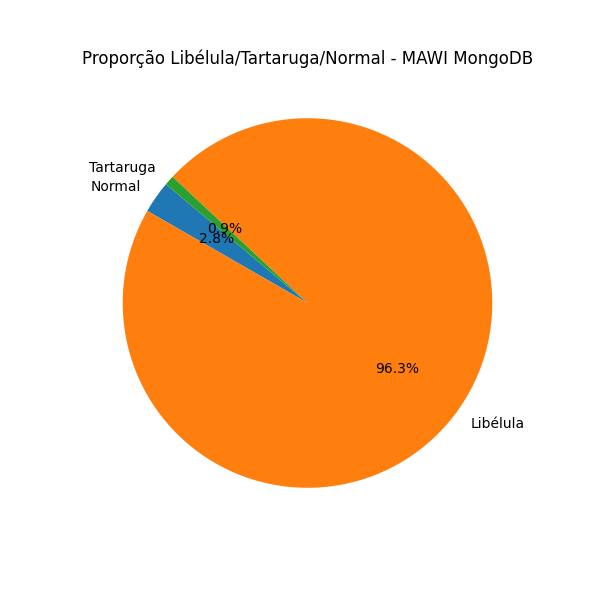
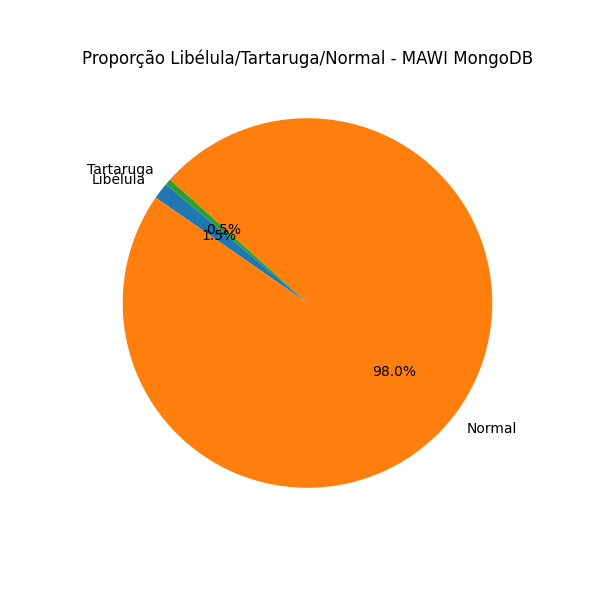
feat: arrumando alguns valore de hiperparametros

diff --git a/Processamento/Porporcoes.py b/Processamento/Porporcoes.py
@@ -24,10 +24,11 @@ os.makedirs(PATH_GRAPHS, exist_ok=True)
 today_str = datetime.now().strftime('%Y%m%d')
 
 # Hiperparâmetros (ajuste conforme necessidade)
-RATO_THRESHOLD = 45          # 1 KB
+RATO_THRESHOLD = 160          # 1 KB
 LIBELULA_THRESHOLD = 1000            # 1 segundo em ms
-CHITA_RATE_THRESHOLD = 10 * 1024 * 1024  # ex: 10 MB/s (bytes por segundo); ajuste conforme contexto
+CARACOL_RATE_THRESHOLD = 10 * 1024 * 1024  # ex: 10 MB/s (bytes por segundo); ajuste conforme contexto
                                          # lembre-se: taxa = nbytes_total / (duration/1000)
+MINIMUM_NPACKETS = 3  # mínimo de pacotes para considerar classificação
 
 # Conexão MongoDB
 client = pymongo.MongoClient("mongodb://localhost:27017/")
@@ -58,15 +59,15 @@ if res is None:
     raise RuntimeError("Coleção vazia ou erro ao agregar estatísticas.")
 elefante_thresh = res["avg_bytes"] + 3 * res["std_bytes"]
 tartaruga_thresh = res["avg_duration"] + 3 * res["std_duration"]
-caracol_thresh = res["avg_packets"] + 3 * res["std_packets"]
+chita_thresh = res["avg_packets"] + 3 * res["std_packets"]
 
 log("Thresholds calculados:")
 log(f"  Elefante ≥ {elefante_thresh:.2f} bytes; ")
 log(f"  Rato < {RATO_THRESHOLD} bytes; ")
 log(f"  Tartaruga ≥ {tartaruga_thresh:.2f} ms; ")
 log(f"  Libélula < {LIBELULA_THRESHOLD} ms; ")
-log(f"  Caracol ≥ {caracol_thresh:.2f} pacotes; ")
-log(f"  Chita ≥ taxa {CHITA_RATE_THRESHOLD} B/s")
+log(f"  Caracol < taxa {CARACOL_RATE_THRESHOLD} B/s; ")
+log(f"  Chita ≥ taxa {chita_thresh:.2f} B/s")
 log("Médias: ")
 log(f"  nbytes_total: {res['avg_bytes']:.2f} bytes")
 log(f"  duration: {res['avg_duration']:.2f} ms")
@@ -79,50 +80,68 @@ log(f"  npackets_total: {res['std_packets']:.2f} pacotes")
 # 2) Montar pipeline de agregação:
 pipeline = [
     # Project: manter campos e calcular taxa de transmissão em bytes/s
-    {"$project": {
-        "duration": 1,
-        "nbytes_total": 1,
-        "npackets_total": 1,
-        # taxa em bytes por segundo, evita divisão por zero:
-        "rate": {
-            "$cond": [
-                {"$gt": ["$duration", 0]},
-                {"$divide": ["$nbytes_total", {"$divide": ["$duration", 1000]}]}, 
-                0
-            ]
-        },
-        # classificação volume
-        "tipo_volume": {
-            "$switch": {
-                "branches": [
-                    {"case": {"$gte": ["$nbytes_total", elefante_thresh]}, "then": "Elefante"},
-                    {"case": {"$lt": ["$nbytes_total", RATO_THRESHOLD]}, "then": "Rato"},
-                ],
-                "default": "Normal"
-            }
-        },
-        # classificação duração
-        "tipo_duracao": {
-            "$switch": {
-                "branches": [
-                    {"case": {"$lt": ["$duration", LIBELULA_THRESHOLD]}, "then": "Libélula"},
-                    {"case": {"$gte": ["$duration", tartaruga_thresh]}, "then": "Tartaruga"},
-                ],
-                "default": "Normal"
-            }
-        },
-        # classificação pacotes/taxa
-        # Para Chita, usamos rate >= CHITA_RATE_THRESHOLD; para Caracol, npackets_total >= caracol_thresh
-        "tipo_pacote": {
-            "$switch": {
-                "branches": [
-                    {"case": {"$gte": ["$rate", CHITA_RATE_THRESHOLD]}, "then": "Chita"},
-                    {"case": {"$gte": ["$npackets_total", caracol_thresh]}, "then": "Caracol"},
-                ],
-                "default": "Normal"
+    {
+        "$project": {
+            "duration": 1,
+            "nbytes_total": 1,
+            "npackets_total": 1,
+            "rate": {
+                "$cond": [
+                    {"$gt": ["$duration", 0]},
+                    {"$divide": ["$nbytes_total", {"$divide": ["$duration", 1000]}]}, 
+                    0
+                ]
+            },
+            # classificação volume
+            "tipo_volume": {
+                "$cond": [
+                    {"$lt": ["$npackets_total", MINIMUM_NPACKETS]},
+                    "Normal",
+                    {
+                        "$switch": {
+                            "branches": [
+                                {"case": {"$gte": ["$nbytes_total", elefante_thresh]}, "then": "Elefante"},
+                                {"case": {"$lt": ["$nbytes_total", RATO_THRESHOLD]}, "then": "Rato"},
+                            ],
+                            "default": "Normal"
+                        }
+                    }
+                ]
+            },
+            # classificação duração
+            "tipo_duracao": {
+                "$cond": [
+                    {"$lt": ["$npackets_total", MINIMUM_NPACKETS]},
+                    "Normal",
+                    {
+                        "$switch": {
+                            "branches": [
+                                {"case": {"$lt": ["$duration", LIBELULA_THRESHOLD]}, "then": "Libélula"},
+                                {"case": {"$gte": ["$duration", tartaruga_thresh]}, "then": "Tartaruga"},
+                            ],
+                            "default": "Normal"
+                        }
+                    }
+                ]
+            },
+            # classificação pacotes/taxa
+            "tipo_pacote": {
+                "$cond": [
+                    {"$lt": ["$npackets_total", MINIMUM_NPACKETS]},
+                    "Normal",
+                    {
+                        "$switch": {
+                            "branches": [
+                                {"case": {"$gte": ["$rate", chita_thresh]}, "then": "Chita"},
+                                {"case": {"$gte": ["$rate", CARACOL_RATE_THRESHOLD]}, "then": "Caracol"},
+                            ],
+                            "default": "Normal"
+                        }
+                    }
+                ]
             }
         }
-    }},
+    },
     # Facet: obter contagens e médias por categoria
     {"$facet": {
         # total de fluxos
